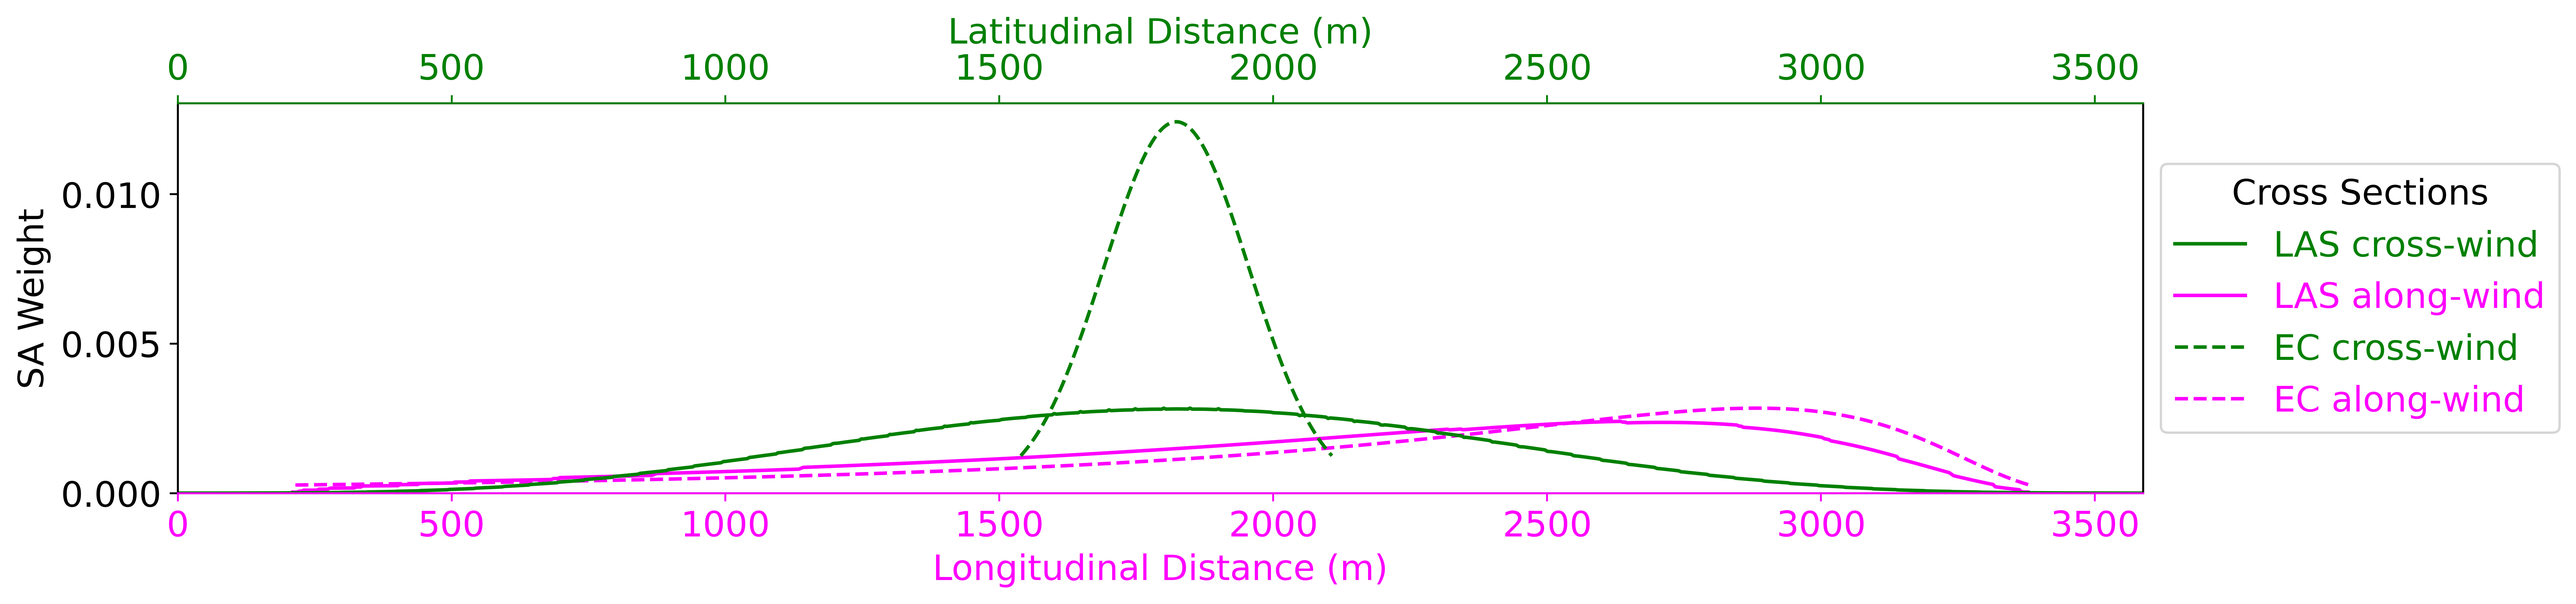
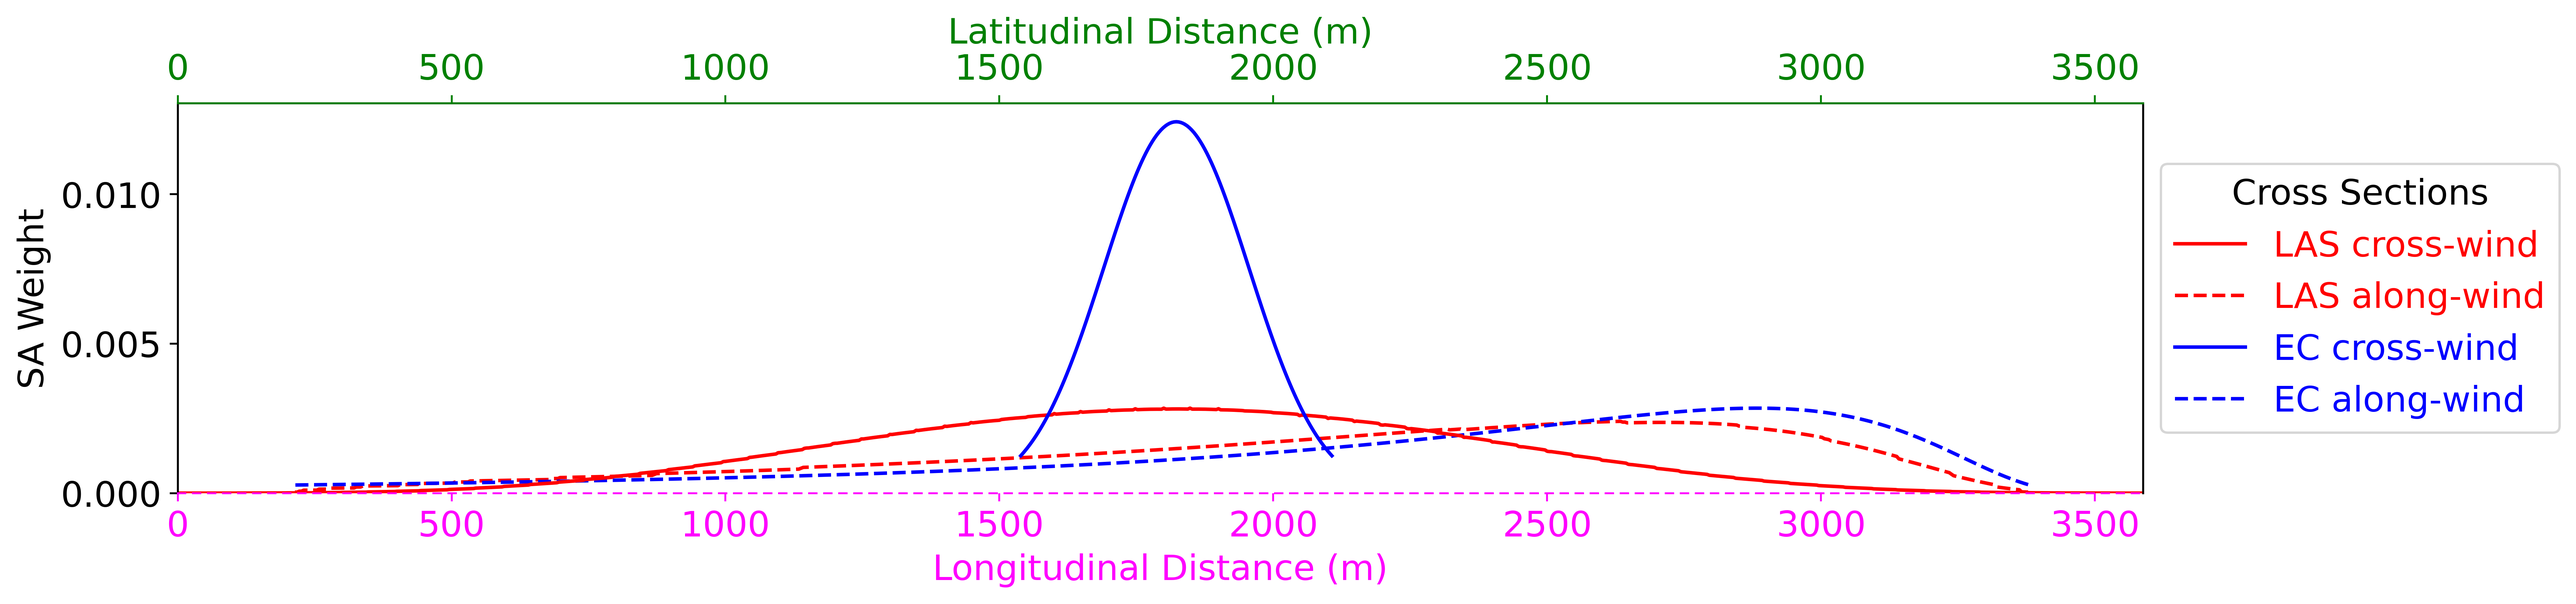
change colours

diff --git a/scint_plots/concept_figure/concept_figure_funs.py b/scint_plots/concept_figure/concept_figure_funs.py
@@ -1,10 +1,10 @@
 import rasterio.plot
 import numpy as np
-import matplotlib.pyplot as plt
 import glob
 import os
-import matplotlib as mpl
 import pandas as pd
+import matplotlib as mpl
+import matplotlib.pyplot as plt
 
 mpl.rcParams.update({'font.size': 15})  # updating the matplotlib fontsize
 
@@ -211,18 +211,18 @@ def plot_concept_axis(in_dict, save_path):
     ax2 = ax.twiny()
     # east to west
     las_lat = ax2.plot(df_las_lat.index - min_lat, df_las_lat.x_crosssec_to1_path, label='LAS cross-wind',
-                       color='green',
+                       color='red',
                        linestyle='-')
-    ec_lat = ax2.plot(df_ec_lat.index - min_lat, df_ec_lat.x_crosssec_to1_point, label='EC cross-wind', color='green',
-                      linestyle='--')
+    ec_lat = ax2.plot(df_ec_lat.index - min_lat, df_ec_lat.x_crosssec_to1_point, label='EC cross-wind', color='blue',
+                      linestyle='-')
     ax2.set_xlabel('Latitudinal Distance (m)')
     ax2.set_ylabel('SA Weight')
 
     # north to south
     las_lon = ax.plot(df_las_lon.index - min_lon, df_las_lon.y_crosssec_to1_path, label='LAS along-wind',
-                      color='magenta',
-                      linestyle='-')
-    ec_lon = ax.plot(df_ec_lon.index - min_lon, df_ec_lon.y_crosssec_to1_point, label='EC along-wind', color='magenta',
+                      color='red',
+                      linestyle='--')
+    ec_lon = ax.plot(df_ec_lon.index - min_lon, df_ec_lon.y_crosssec_to1_point, label='EC along-wind', color='blue',
                      linestyle='--')
     ax.set_xlabel('Longitudinal Distance (m)')
     ax.ticklabel_format(style='plain')
@@ -242,6 +242,10 @@ def plot_concept_axis(in_dict, save_path):
     ax2.spines['bottom'].set_color('magenta')
     ax.tick_params(axis='x', colors='magenta')
     ax.xaxis.label.set_color('magenta')
+
+    # line style
+    ax2.spines['bottom'].set_linestyle((0,(4,4)))
+    ax.spines['bottom'].set_visible(False)
 
     # CHANGE HERE
     ax.set_ylabel('SA Weight')
